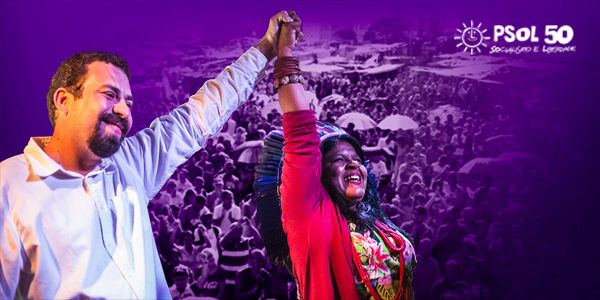
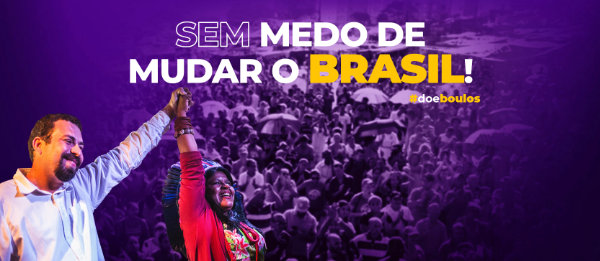
Update email header

diff --git a/public/template-emails/captured.html b/public/template-emails/captured.html
@@ -14,7 +14,7 @@
                               </td>
                            </tr>
                            <tr>
-                            <td colspan="2"><a href="https://doeboulos.com.br/" target="_blank"><img src="https://doeboulos.com.br/template-emails/header-email.jpg?v=2" class="x_deviceWidth" style="border-radius:7px 7px 0 0; float:left"></a></td>
+                            <td colspan="2"><a href="https://doeboulos.com.br/" target="_blank"><img src="https://doeboulos.com.br/template-emails/header-email.jpg?v=20180815" class="x_deviceWidth" style="border-radius:7px 7px 0 0; float:left"></a></td>
                            </tr>
                            <tr>
                               <td bgcolor="#ffffff" colspan="2" style="background-color:rgb(255,255,255); border-radius:0 0 7px 7px; font-family:'Montserrat',Arial,sans-serif; font-size:13px; font-weight:normal; line-height:24px; padding:30px 0; text-align:center; vertical-align:top">

diff --git a/public/template-emails/decred.html b/public/template-emails/decred.html
@@ -14,7 +14,7 @@
                               </td>
                            </tr>
                            <tr>
-                            <td colspan="2"><a href="https://doeboulos.com.br/" target="_blank"><img src="https://doeboulos.com.br/template-emails/header-email.jpg?v=2" class="x_deviceWidth" style="border-radius:7px 7px 0 0; float:left"></a></td>
+                            <td colspan="2"><a href="https://doeboulos.com.br/" target="_blank"><img src="https://doeboulos.com.br/template-emails/header-email.jpg?v=20180815" class="x_deviceWidth" style="border-radius:7px 7px 0 0; float:left"></a></td>
                            </tr>
                            <tr>
                               <td bgcolor="#ffffff" colspan="2" style="background-color:rgb(255,255,255); border-radius:0 0 7px 7px; font-family:'Montserrat',Arial,sans-serif; font-size:13px; font-weight:normal; line-height:24px; padding:30px 0; text-align:center; vertical-align:top">

diff --git a/public/template-emails/boleto_created.html b/public/template-emails/boleto_created.html
@@ -20,7 +20,7 @@
                                 <tr>
                                     <td colspan="2">
                                         <a href="https://doeboulos.com.br/" target="_blank">
-                                            <img src="https://doeboulos.com.br/template-emails/header-email.jpg?v=2" class="x_deviceWidth" style="border-radius:7px 7px 0 0; float:left">
+                                            <img src="https://doeboulos.com.br/template-emails/header-email.jpg?v=20180815" class="x_deviceWidth" style="border-radius:7px 7px 0 0; float:left">
                                         </a>
                                     </td>
                                 </tr>

diff --git a/public/template-emails/boleto_expired.html b/public/template-emails/boleto_expired.html
@@ -20,7 +20,7 @@
                                 <tr>
                                     <td colspan="2">
                                         <a href="https://doeboulos.com.br/" target="_blank">
-                                            <img src="https://doeboulos.com.br/template-emails/header-email.jpg?v=2" class="x_deviceWidth" style="border-radius:7px 7px 0 0; float:left">
+                                            <img src="https://doeboulos.com.br/template-emails/header-email.jpg?v=20180815" class="x_deviceWidth" style="border-radius:7px 7px 0 0; float:left">
                                         </a>
                                     </td>
                                 </tr>

diff --git a/public/template-emails/non_finished_donation.html b/public/template-emails/non_finished_donation.html
@@ -20,7 +20,7 @@
                                 <tr>
                                     <td colspan="2">
                                         <a href="https://doeboulos.com.br/" target="_blank">
-                                            <img src="https://doeboulos.com.br/template-emails/header-email.jpg?v=2" class="x_deviceWidth" style="border-radius:7px 7px 0 0; float:left">
+                                            <img src="https://doeboulos.com.br/template-emails/header-email.jpg?v=20180815" class="x_deviceWidth" style="border-radius:7px 7px 0 0; float:left">
                                         </a>
                                     </td>
                                 </tr>

diff --git a/public/template-emails/cc_refused.html b/public/template-emails/cc_refused.html
@@ -20,7 +20,7 @@
                                 <tr>
                                     <td colspan="2">
                                         <a href="https://doeboulos.com.br/" target="_blank">
-                                            <img src="https://doeboulos.com.br/template-emails/header-email.jpg?v=2" class="x_deviceWidth"
+                                            <img src="https://doeboulos.com.br/template-emails/header-email.jpg?v=20180815" class="x_deviceWidth"
                                                 style="border-radius:7px 7px 0 0; float:left">
                                         </a>
                                     </td>
